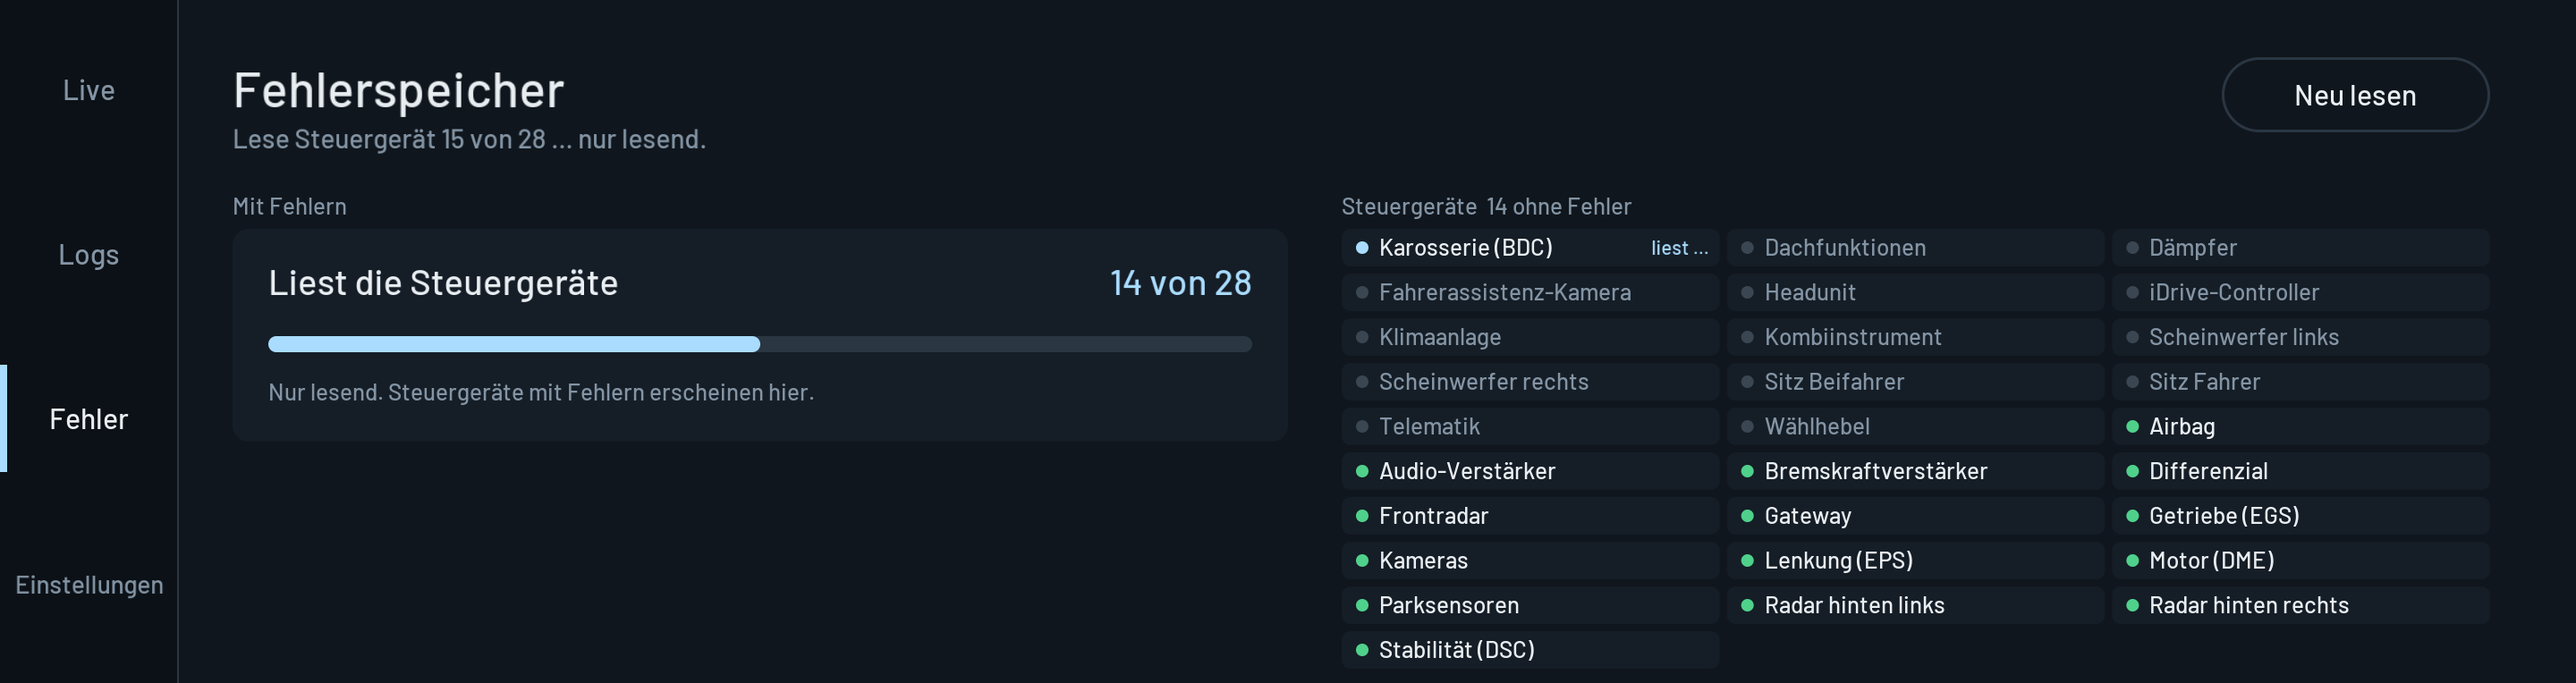
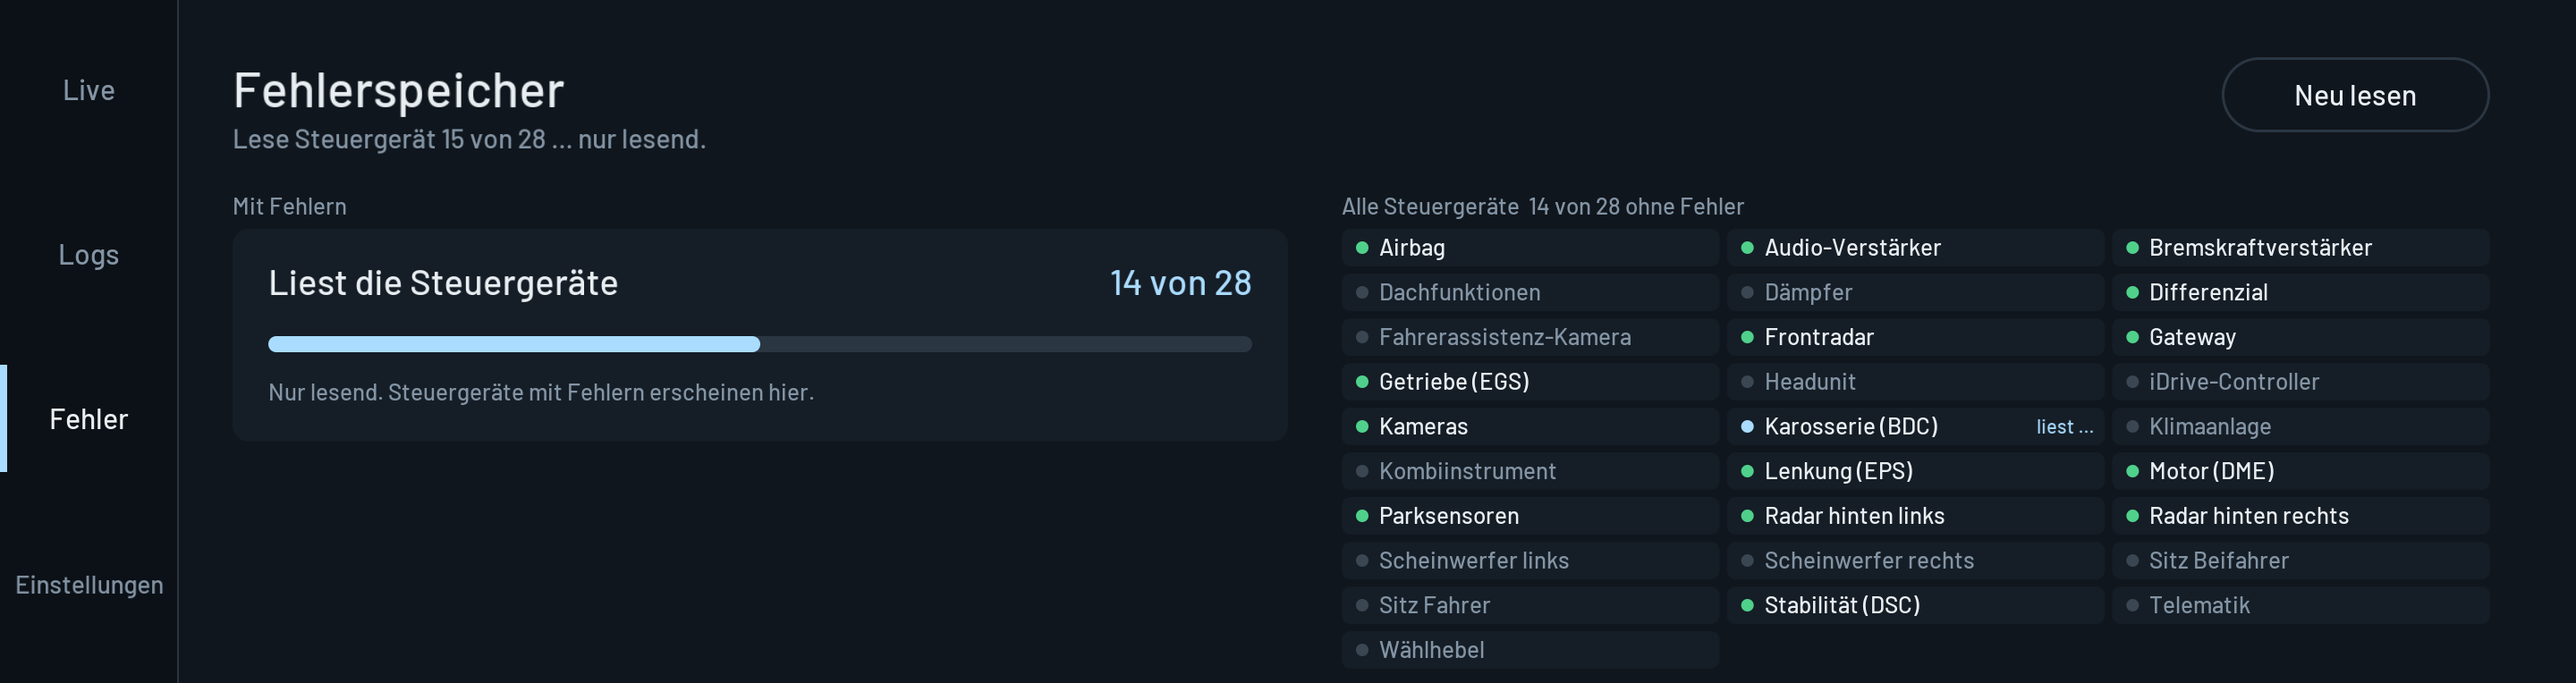
0.19.1: every unit in a fixed place on the fault page (by name), nothing moves while reading

diff --git a/apps/km_motordaten/src/dash.js b/apps/km_motordaten/src/dash.js
@@ -157,7 +157,6 @@ const FAULT_ROWS = 8;
  */
 const FAULT_PANEL = { cards: { x: X0, y: 256, w: 1180, h: 112, gap: 14, max: 4 },
     chips: { x: X0 + 1240, y: 256, w: W - PAD - X0 - 1240, cols: 3, h: 42, gap: 8 } };
-const CHIP_ORDER = { faults: 0, read: 1, wait: 2, ok: 3, refused: 4, none: 5, error: 6 };
 
 function faultLayout(f) {
     const scan = (f && f.scan) || [];
@@ -166,11 +165,11 @@ function faultLayout(f) {
         .sort((a, b) => (active(b) - active(a)) || (b.entries.length - a.entries.length) || a.name.localeCompare(b.name, 'de'));
     const P = FAULT_PANEL.cards;
     const cards = faulty.slice(0, P.max).map((u, i) => ({ u, box: { x: P.x, y: P.y + i * (P.h + P.gap), w: P.w, h: P.h } }));
-    const rest = faulty.slice(P.max).concat(scan.filter((u) => u.state !== 'faults')
-        .sort((a, b) => (CHIP_ORDER[a.state] - CHIP_ORDER[b.state]) || a.name.localeCompare(b.name, 'de')));
+    // every unit in a fixed place (by name), whatever its reading says: nothing moves while they are read
+    const rest = scan.slice().sort((a, b) => a.name.localeCompare(b.name, 'de'));
     const Q = FAULT_PANEL.chips;
     const cw = (Q.w - Q.gap * (Q.cols - 1)) / Q.cols;
-    const chips = rest.map((u, i) => ({ u, box: { x: Q.x + (i % Q.cols) * (cw + Q.gap), y: Q.y + Math.floor(i / Q.cols) * (Q.h + Q.gap),
+    const chips = rest.map((u, i) => ({ u, card: cards.some((c) => c.u === u), box: { x: Q.x + (i % Q.cols) * (cw + Q.gap), y: Q.y + Math.floor(i / Q.cols) * (Q.h + Q.gap),
         w: cw, h: Q.h } }));
     return { faulty, cards, chips };
 }
@@ -179,7 +178,7 @@ function faultsTargets(extra) {
     const f = (extra && extra.faults) || {};
     const out = [];
     const L2 = faultLayout(f);
-    L2.cards.concat(L2.chips).filter((c) => c.u.state === 'faults')
+    L2.cards.concat(L2.chips.filter((c) => !c.card)).filter((c) => c.u.state === 'faults')
         .forEach((c) => out.push(Object.assign({ id: `unit:${c.u.addr}`, label: c.u.name }, c.box)));
     out.push({ id: 'faults:read', x: W - PAD - 300, y: 64, w: 300, h: 84, label: 'Neu lesen' });
     if (f.entries && f.entries.length && !f.reading) {
@@ -698,12 +697,12 @@ function faultsPage(rec, ui, extra) {
         rec.polyline([[cx - 8, box.y + box.h / 2 - 14], [cx + 4, box.y + box.h / 2], [cx - 8, box.y + box.h / 2 + 14]], 4, C.dim);
     });
     if (lay.faulty.length > P.max) {
-        rec.text(`+ ${lay.faulty.length - P.max} weitere rechts`, P.x, P.y + P.max * (P.h + P.gap) + 6, 26, C.dim, { font: 'label' });
+        rec.text(`+ ${lay.faulty.length - P.max} weitere rechts (rot)`, P.x, P.y + P.max * (P.h + P.gap) + 6, 26, C.dim, { font: 'label' });
     }
 
     // right: every other unit as a chip, the dot saying how it stands
     const ok = lay.chips.filter((c) => c.u.state === 'ok').length;
-    rec.text(`Steuergeräte  ${ok} ohne Fehler`, Q.x, Q.y - 16, 26, C.dim, { font: 'label' });
+    rec.text(`Alle Steuergeräte  ${ok} von ${lay.chips.length} ohne Fehler`, Q.x, Q.y - 16, 26, C.dim, { font: 'label' });
     lay.chips.forEach(({ u, box }) => {
         const id = `unit:${u.addr}`;
         const look = u.state === 'read' && u.try > 1 ? { color: C.ice, text: `liest … (${u.try}.)` } : TILE[u.state] || TILE.wait;
